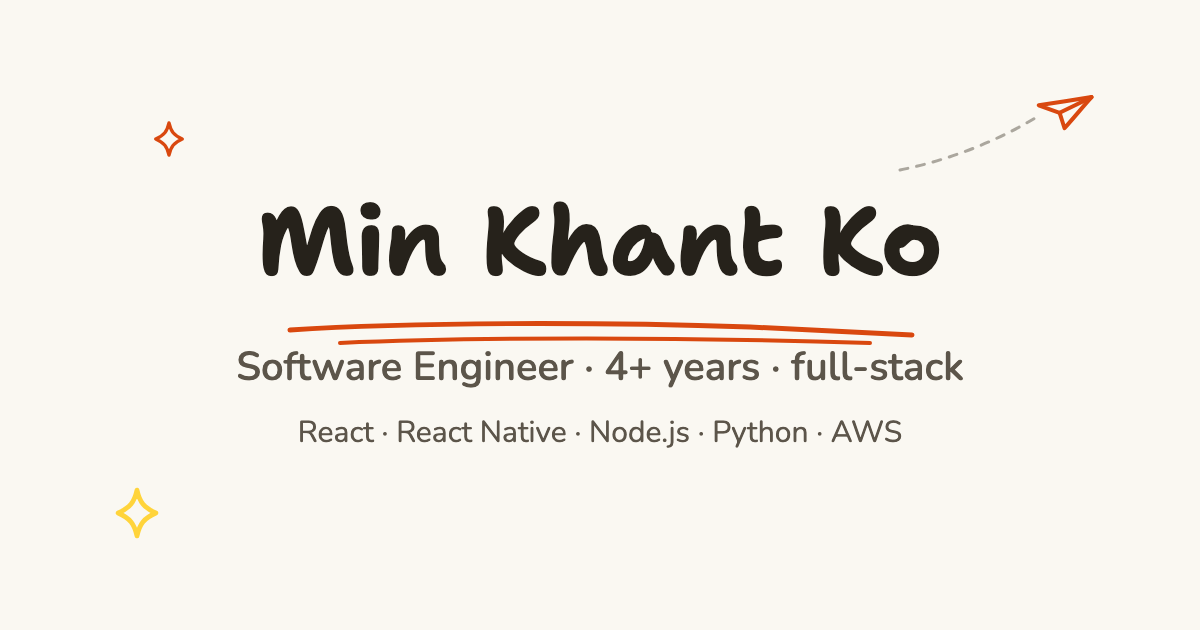
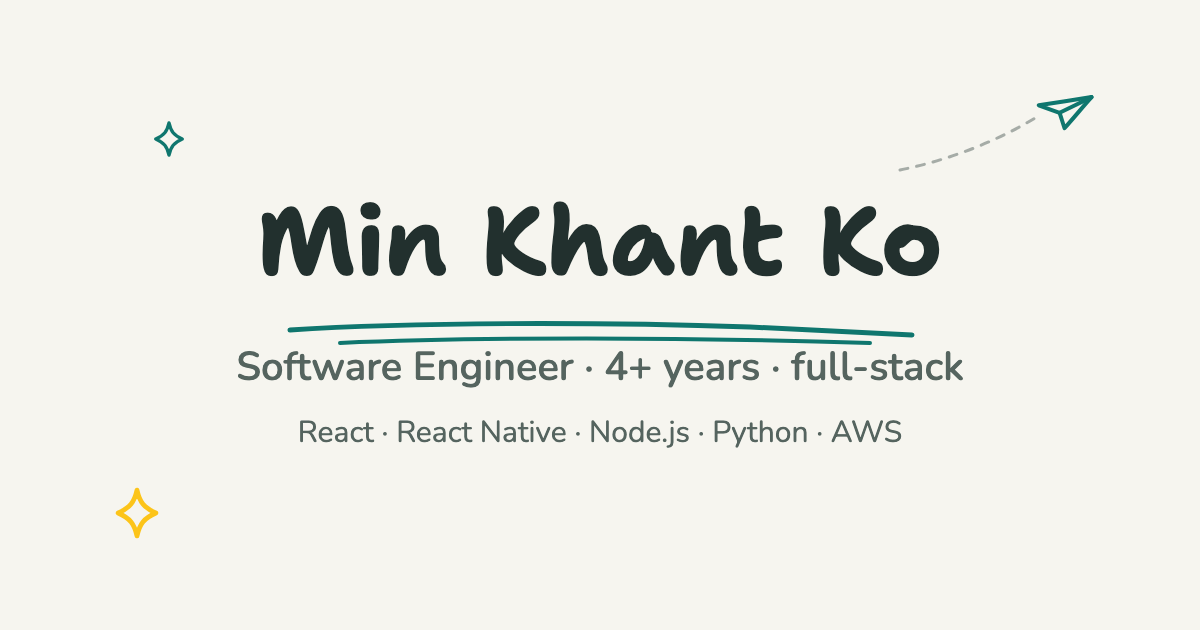
Teal/amber theme, wandering background ball, home-gold tooltip title
Palette centralized in CSS custom properties and swapped to a new
variation: teal accent (#0f766e), amber home/highlight (#e0a80d/#fcc419),
cooler paper and slate-green ink. All components, the map, rough-notation
ink, favicon, and the OG image read from the same variables now.

The scroll ball no longer rides a straight right-edge track: it lives
behind the content (fixed, -z-10) and weaves across the full viewport
width while descending, scrubbed to scroll progress with sine easing.

Thailand's map label is back to ink; the hover tooltip's country title
now renders in the 'currently based' gold for Thailand and accent teal
for client countries.

diff --git a/src/scripts/animations.ts b/src/scripts/animations.ts
@@ -7,6 +7,13 @@ import type { RoughAnnotationType } from 'rough-notation/lib/model';
 
 const prefersReducedMotion = window.matchMedia('(prefers-reduced-motion: reduce)').matches;
 
+// theme colors come from the CSS custom properties so the palette lives in one place
+const themeVar = (name: string, fallback: string) =>
+  getComputedStyle(document.documentElement).getPropertyValue(name).trim() || fallback;
+const ACCENT = themeVar('--color-accent', '#0f766e');
+const MARKER = themeVar('--color-marker', '#fcc419');
+const HOME = themeVar('--color-home', '#e0a80d');
+
 /** set a path up to be "drawn" (hidden stroke, revealed by dashoffset → 0) */
 function prepDraw(path: SVGPathElement) {
   const len = path.getTotalLength();
@@ -205,17 +212,18 @@ if (!prefersReducedMotion) {
     );
   });
 
-  // ---------- scroll ball: rolls down its dashed track with page progress ----------
-  const ballTrack = document.getElementById('scroll-track');
+  // ---------- scroll ball: weaves across the page background with scroll ----------
   const ball = document.getElementById('scroll-ball');
-  if (ballTrack && ball) {
-    gsap.to(ball, {
-      y: () => ballTrack.clientHeight - ball.clientHeight,
-      rotation: 1080,
-      transformOrigin: '50% 50%',
-      ease: 'none',
-      scrollTrigger: { start: 0, end: 'max', scrub: 0.4, invalidateOnRefresh: true },
-    });
+  if (ball) {
+    gsap
+      .timeline({
+        defaults: { ease: 'sine.inOut', transformOrigin: '50% 50%' },
+        scrollTrigger: { start: 0, end: 'max', scrub: 0.6, invalidateOnRefresh: true },
+      })
+      .to(ball, { x: '80vw', y: '16vh', rotation: 420 })
+      .to(ball, { x: '10vw', y: '38vh', rotation: 840 })
+      .to(ball, { x: '72vw', y: '58vh', rotation: 1260 })
+      .to(ball, { x: '20vw', y: '82vh', rotation: 1680 });
   }
 
   // ---------- velocity skew: the page leans with fast scrolling ----------
@@ -293,6 +301,8 @@ if (tip && tipWrap) {
     el.addEventListener('mouseenter', () => {
       countryEl.textContent = el.dataset.country || '';
       clientEl.textContent = el.dataset.client || '';
+      // home base gets the "currently based" gold; clients keep the accent
+      countryEl.style.color = 'home' in el.dataset ? HOME : ACCENT;
       gsap.to(tip, {
         autoAlpha: 1,
         scale: 1,
@@ -315,9 +325,9 @@ if (tip && tipWrap) {
 // ---------- rough-notation: hand-drawn underlines/highlights on key phrases ----------
 // Runs even with reduced motion (duration 0 = static ink, no animation).
 const colors: Record<string, string> = {
-  underline: '#d9480f',
-  highlight: '#ffd43b',
-  box: '#d9480f',
+  underline: ACCENT,
+  highlight: MARKER,
+  box: ACCENT,
 };
 
 const annotated = new WeakSet<Element>();
@@ -330,7 +340,7 @@ const observer = new IntersectionObserver(
       const type = (el.dataset.annotate || 'underline') as RoughAnnotationType;
       const annotation = annotate(el, {
         type,
-        color: el.dataset.annotateColor || colors[type] || '#d9480f',
+        color: el.dataset.annotateColor || colors[type] || ACCENT,
         strokeWidth: 2,
         padding: 3,
         multiline: true,

diff --git a/src/styles/global.css b/src/styles/global.css
@@ -4,12 +4,13 @@
   --font-sans: 'Nunito Variable', ui-rounded, ui-sans-serif, system-ui, sans-serif;
   --font-hand: 'Shantell Sans Variable', 'Comic Sans MS', cursive;
 
-  --color-paper: #faf8f2;
-  --color-ink: #26221b;
-  --color-ink-soft: #5c554a;
-  --color-accent: #d9480f;
-  --color-marker: #ffd43b;
-  --color-line: #e6e0d4;
+  --color-paper: #f6f5ef;
+  --color-ink: #22302e;
+  --color-ink-soft: #55645f;
+  --color-accent: #0f766e;
+  --color-marker: #fcc419;
+  --color-home: #e0a80d;
+  --color-line: #dce0d5;
 }
 
 html {
